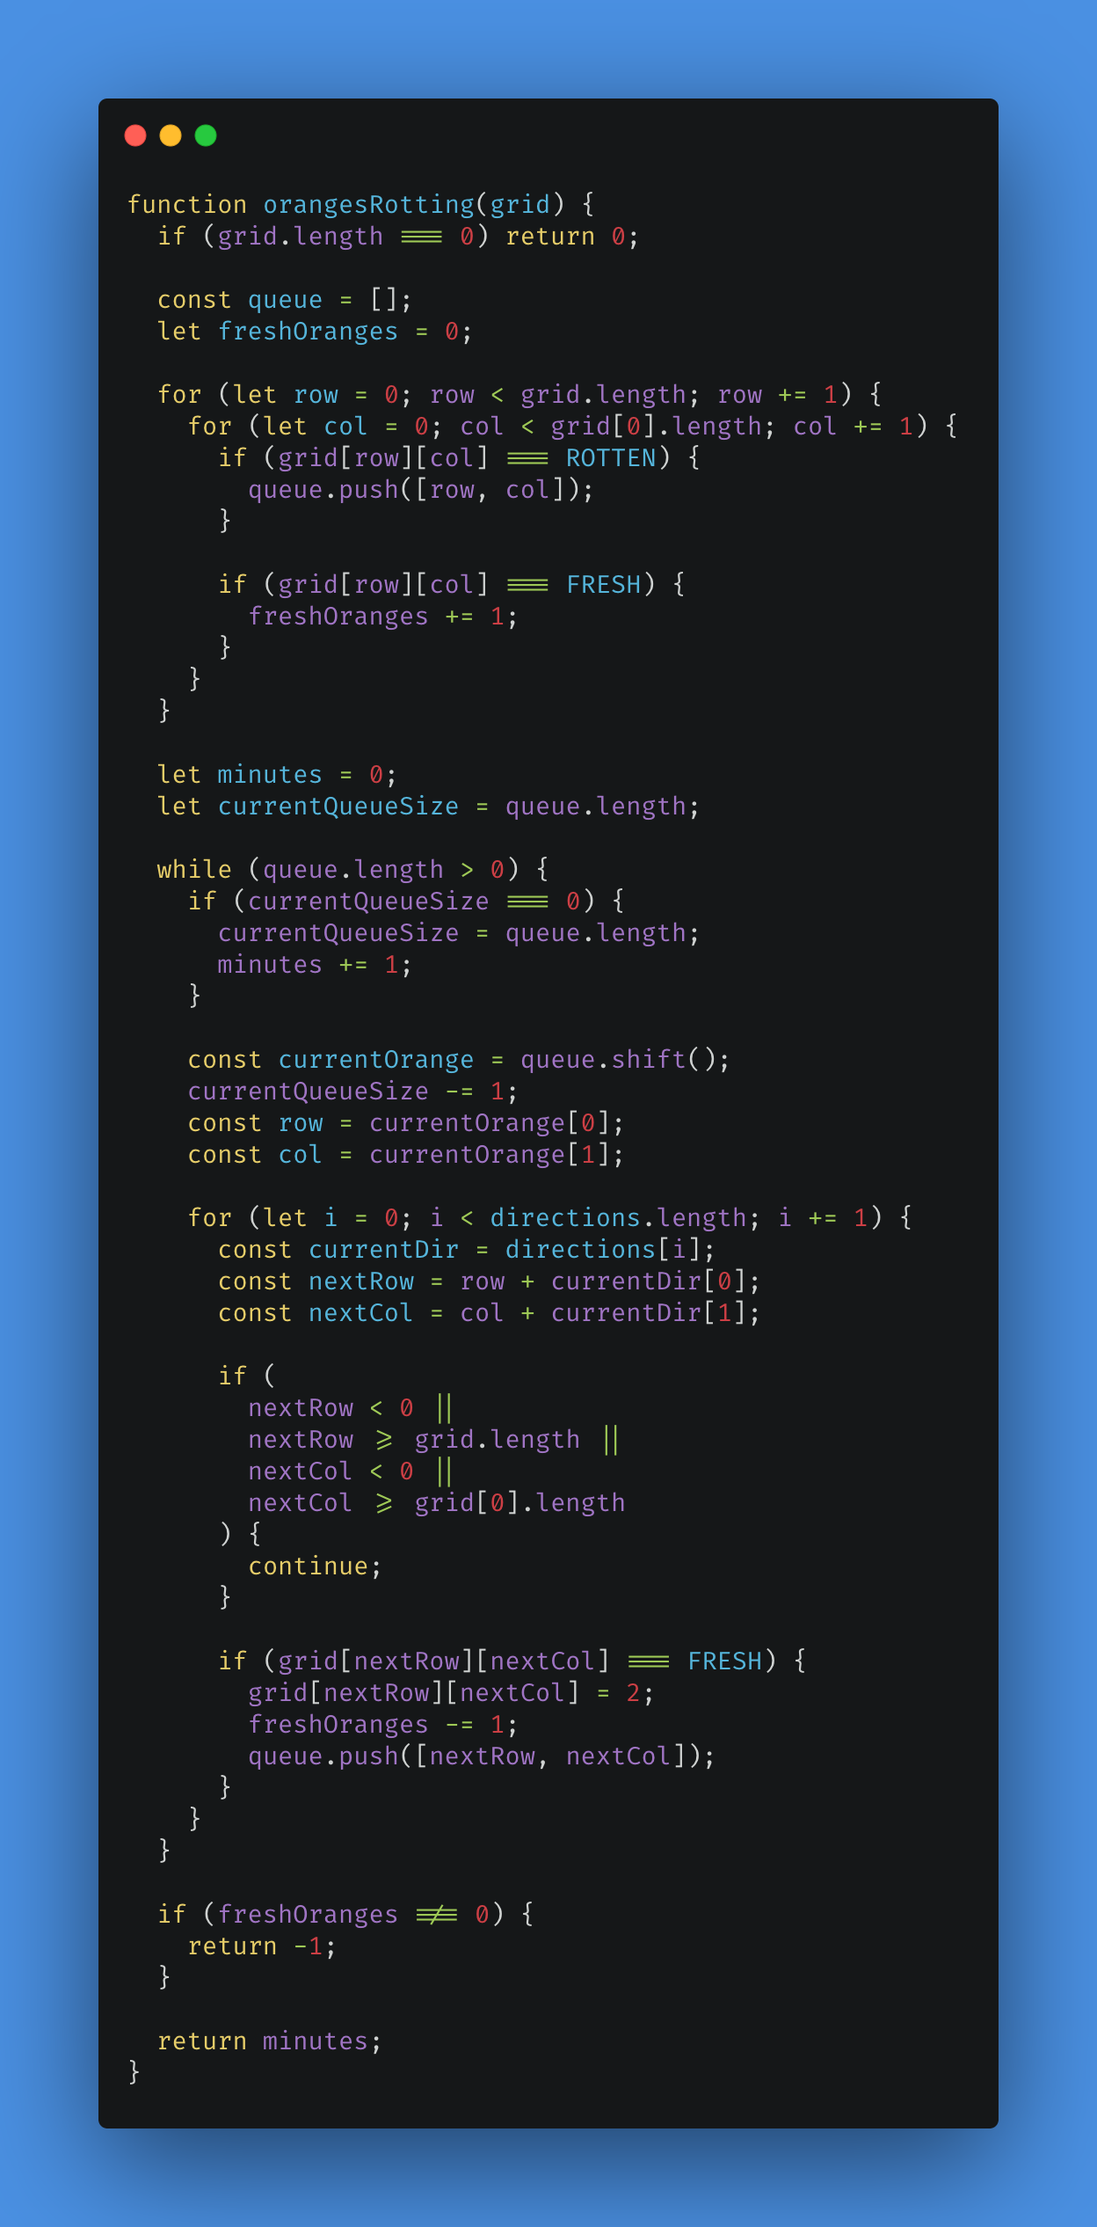
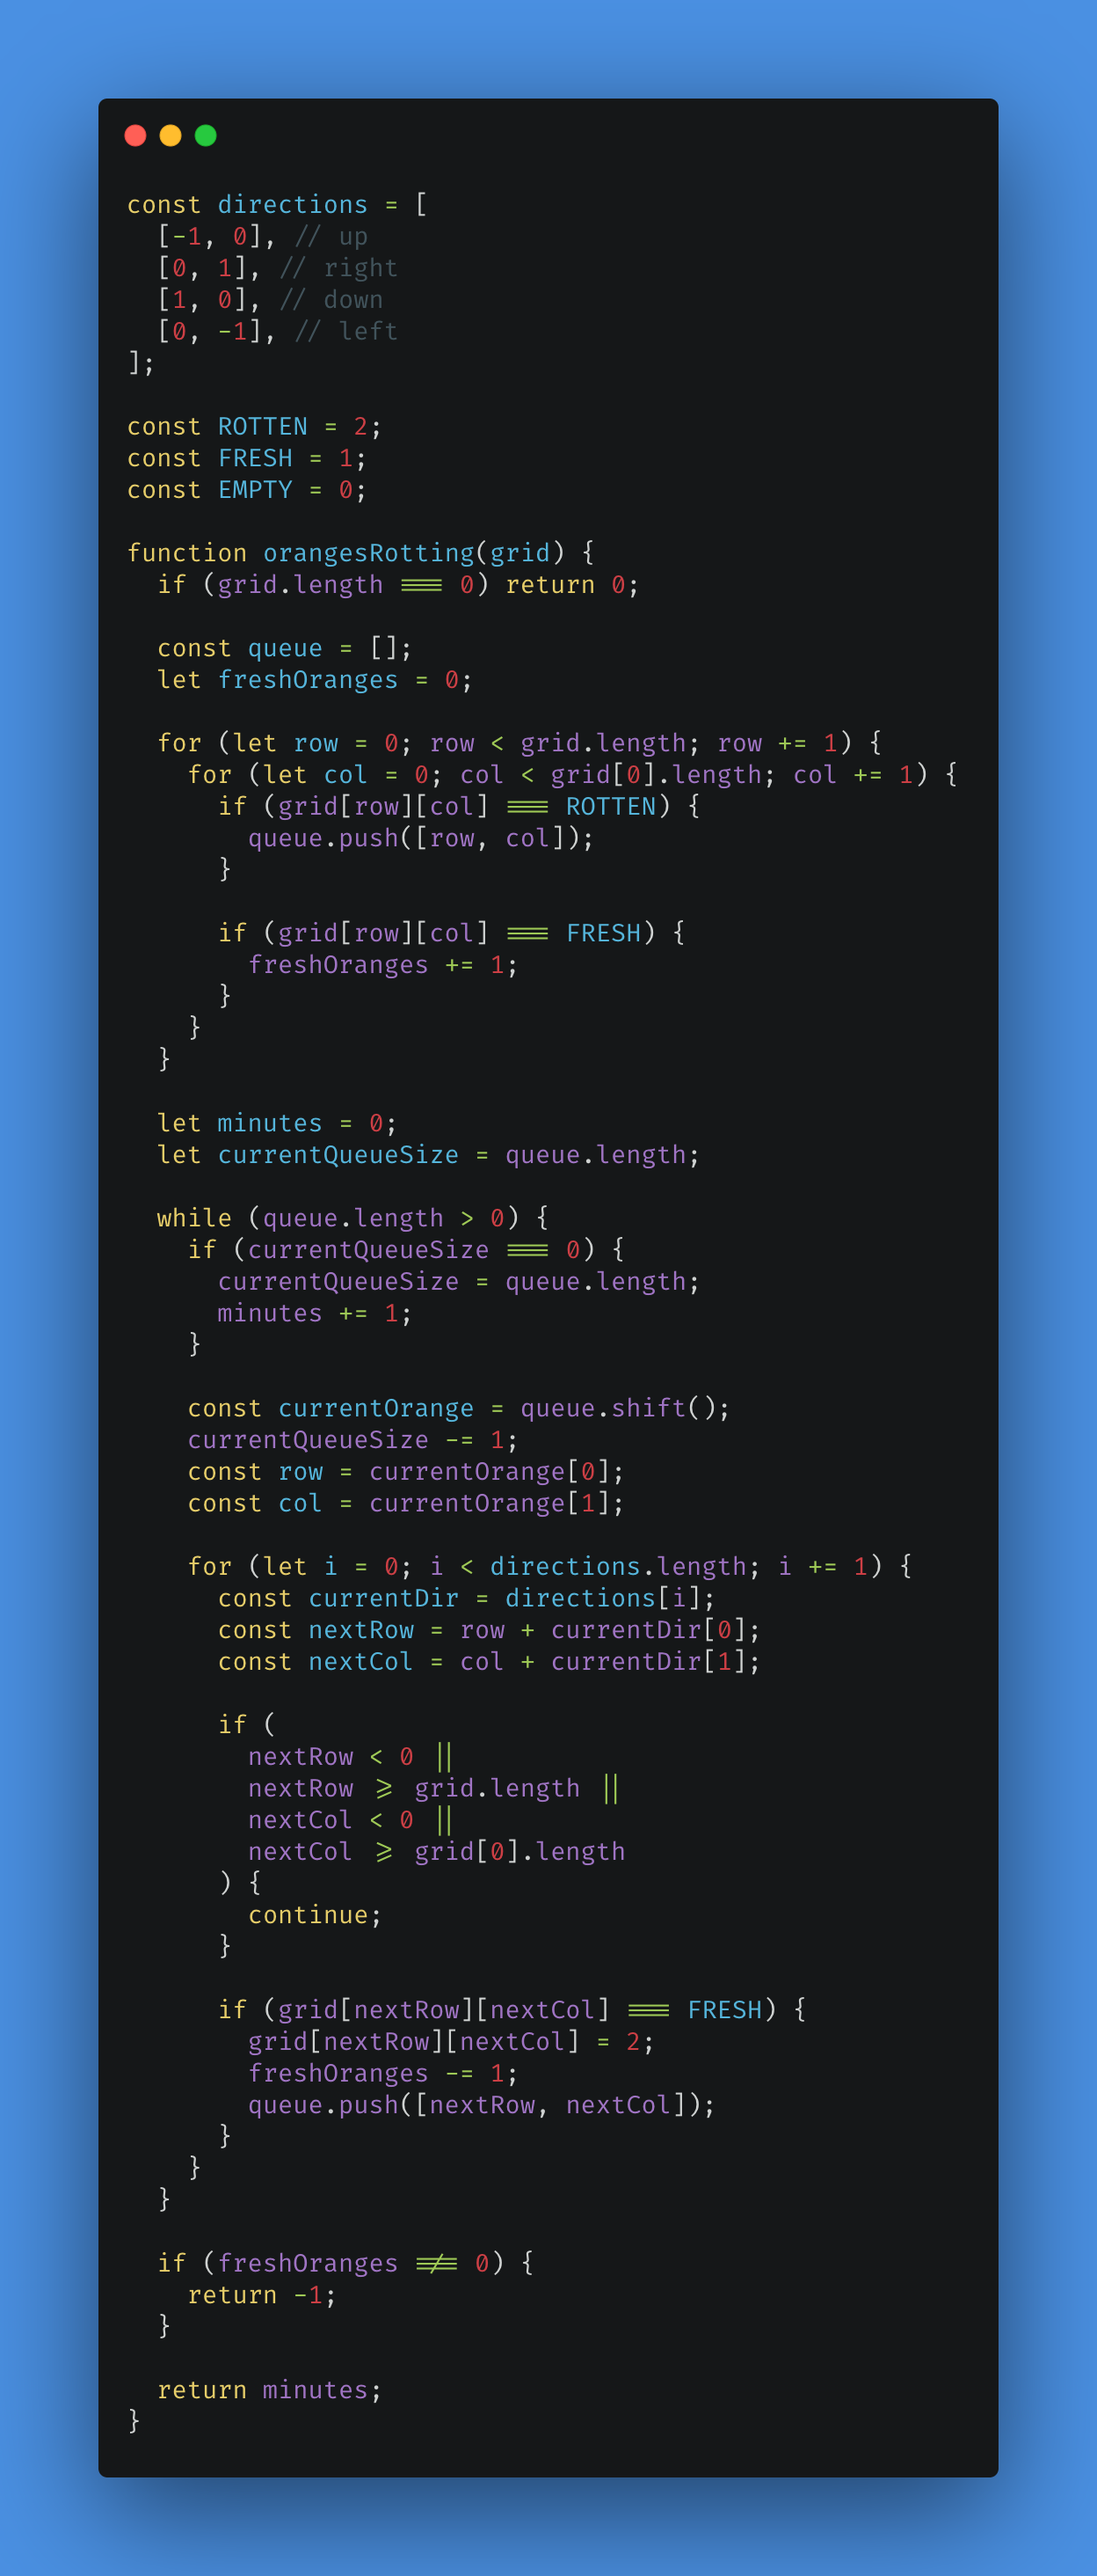
Add direction and other variables in carbon images

diff --git a/101-leetcode/029/carbon/001.js b/101-leetcode/029/carbon/001.js
@@ -1,3 +1,14 @@
+const directions = [
+  [-1, 0], // up
+  [0, 1], // right
+  [1, 0], // down
+  [0, -1], // left
+];
+
+const ROTTEN = 2;
+const FRESH = 1;
+const EMPTY = 0;
+
 function orangesRotting(grid) {
   if (grid.length === 0) return 0;
 
